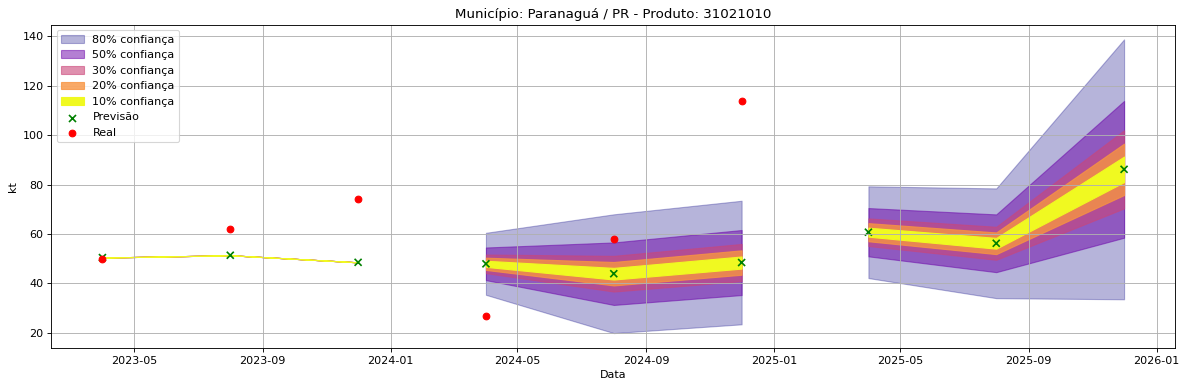
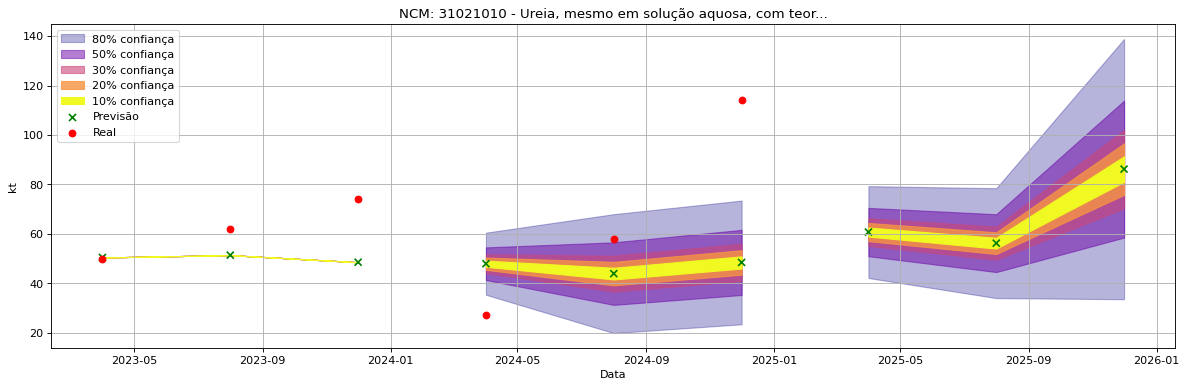
testeando 2

Changed region(s): [[0.0312, 0.0, 0.9975, 0.0928], [0.0312, 0.4639, 0.9975, 0.4948], [0.0935, 0.6495, 0.1247, 0.6804]]

diff --git a/README.md b/README.md
@@ -1,4 +1,11 @@
-Previsão de Importação - Paranaguá/PR
+# Previsão de Importação
+
+> Emissão: 03-2025  
+> Para apreciação comparativa, informamos também previsão e realidade em período(s) de 12 meses anterior(es) ao corrente.  
+> Todas as previsões são produzidas base em dados limitados até o mês 3, respectivamente.  
+
+---
+
 
 ![Gráfico de Previsão](31021010.png)
 
